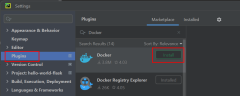
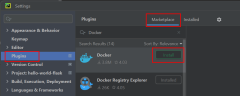
Add new image; replace one.

Changed region(s): [[0.5833, 0.125, 0.7583, 0.2812]]

diff --git a/articles/python/containers-in-azure-overview-python.md b/articles/python/containers-in-azure-overview-python.md
@@ -167,49 +167,10 @@ If you haven't already, install [Azure Tools for VS Code][41].
 
 | Instructions    | Screenshot |
 |:----------------|-----------:|
-|**Step 1**: Use **CTRL** + **ALT**  + **S** to bring up the **Plugins** setting.<br><br>You can also go to **File** \> **Settings** \> **Plugins**.|:::image type="content" source="media/containers-overview/pycharm-plugin-add-small.png" alt-text="Screenshot showing how to add plugins in PyCharm." lightbox="media/containers-overview/pycharm-plugin-add.png":::|
-|**Step 2**: Search **Marketplace** for the [Docker plugin][22] and add it.<br><br>If you are using Docker for Windows, enable connection to Docker via the TCP protocol. For more information, see [Enable Docker support][39].|:::image type="content" source="media/containers-overview/pycharm-plugin-services-small.png" alt-text="Screenshot showing how to see Docker plugin in Services window of PyCharm." lightbox="media/containers-overview/pycharm-plugin-services.png":::|
-|**Step 3**: Under the **Services**, select **Docker**, expand images, right-click an image run it as a container.<br><br>This assumes you already have built a Docker image and it appears in Docker.|:::image type="content" source="media/containers-overview/pycharm-plugin-start-container-small.png" alt-text="Screenshot showing how to start container from Docker image in PyCharm." lightbox="media/containers-overview/pycharm-plugin-start-container.png":::|
+|**Step 1**: Use **CTRL** + **ALT**  + **S** to bring up the **Plugins** setting.<br><br>You can also go to **File** \> **Settings** \> **Plugins**.|:::image type="content" source="media/containers-overview/pycharm-open-plugins-small.png" alt-text="Screenshot showing how to add plugins in PyCharm." lightbox="media/containers-overview/pycharm-open-plugins.png":::|
+|**Step 2**: Under **Marketplace**, search for the [Docker plugin][22], and add it.<br><br>If you are using Docker for Windows, enable connecting to Docker via the TCP protocol. For more information, see [Enable Docker support][39].|:::image type="content" source="media/containers-overview/pycharm-plugin-add-small.png" alt-text="Screenshot showing how to add plugins in PyCharm." lightbox="media/containers-overview/pycharm-plugin-add.png":::|
+|**Step 3**: Under the **Services**, select **Docker**, expand images, right-click an image and select **Create Container** to start a container.<br><br>This assumes you already have built a Docker image and it appears in Docker.|:::image type="content" source="media/containers-overview/pycharm-plugin-start-container-small.png" alt-text="Screenshot showing how to start container from Docker image in PyCharm." lightbox="media/containers-overview/pycharm-plugin-start-container.png":::|
 |**Step 4**: Monitor the output in the **Log** window.|:::image type="content" source="media/containers-overview/pycharm-running-container-example-small.png" alt-text="Screenshot showing an example of running a container in VS Code." lightbox="media/containers-overview/pycharm-running-container-example.png":::|
-
-:::row:::
-    :::column span="2":::
-        **Step 1**: Use **CTRL** + **ALT**  + **S** to bring up the **Plugins** setting.
-
-        You can also go to **File** \> **Settings** \> **Plugins**.
-    :::column-end:::
-    :::column:::
-        :::image type="content" source="media/containers-overview/pycharm-plugin-add.png" alt-text="Screenshot showing how to add plugins in PyCharm." lightbox="media/containers-overview/pycharm-plugin-add.png":::
-    :::column-end:::
-:::row-end:::
-:::row:::
-    :::column span="2":::
-        **Step 2**: Search **Marketplace** for the [Docker plugin][22] and add it.
-
-        If you are using Docker for Windows, enable connection to Docker via the TCP protocol. For more information, see [Enable Docker support][39].
-    :::column-end:::
-    :::column:::
-        :::image type="content" source="media/containers-overview/pycharm-plugin-services.png" alt-text="Screenshot showing how to see Docker plugin in Services window of PyCharm." lightbox="media/containers-overview/pycharm-plugin-services.png":::
-    :::column-end:::
-:::row-end:::
-:::row:::
-    :::column span="2":::
-        **Step 3**: Under the **Services**, select **Docker**, expand images, right-click an image run it as a container.
-
-        This assumes you already have built a Docker image and it appears in Docker.
-    :::column-end:::
-    :::column:::
-        :::image type="content" source="media/containers-overview/pycharm-plugin-start-container.png" alt-text="Screenshot showing how to start container from Docker image in PyCharm." lightbox="media/containers-overview/pycharm-plugin-start-container.png":::
-    :::column-end:::
-:::row-end:::
-:::row:::
-    :::column span="2":::
-        **Step 4**: Monitor the output in the **Log** window.
-    :::column-end:::
-    :::column:::
-        :::image type="content" source="media/containers-overview/pycharm-running-container-example.png" alt-text="Screenshot showing an example of running a container in VS Code." lightbox="media/containers-overview/pycharm-running-container-example.png":::
-    :::column-end:::
-:::row-end:::
 
 ---
 
